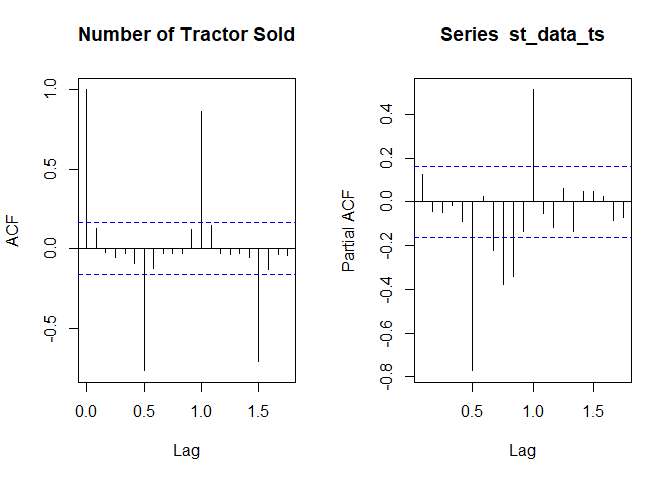
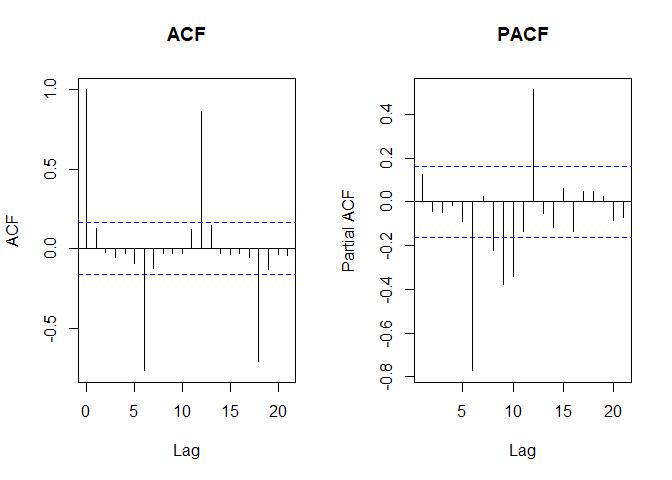
finished tractor sales arima

diff --git a/tractor/tractor_arima.md b/tractor/tractor_arima.md
@@ -9,6 +9,7 @@ February 14, 2019
 library(here)
 library(tidyverse)
 library(tseries)
+library(forecast)
 ```
 
 Read in data and get it into ts format.
@@ -77,8 +78,45 @@ Determine degrees of ARIMA from ACF and PACF plots
 
 ``` r
 par(mfrow=c(1,2))
-acf(st_data_ts)
-pacf(st_data_ts)
+acf(ts(st_data_ts), main='ACF')
+pacf(ts(st_data_ts), main='PACF')
 ```
 
-![](tractor_arima_files/figure-markdown_github/unnamed-chunk-7-1.png)
+![](tractor_arima_files/figure-markdown_github/unnamed-chunk-7-1.png) Interpretation: Because of the significant values in both ACF and PACF plots an ARIMA mode is a good choice. The seasonal component exist because we see spikes at lag 12 on both graphs. AR(0), diff(1), MA(1)
+
+``` r
+arima_fit <- auto.arima(log10(data_ts), approximation=FALSE, trace=FALSE)
+
+summary(arima_fit)
+```
+
+    ## Series: log10(data_ts) 
+    ## ARIMA(0,1,1)(0,1,1)[12] 
+    ## 
+    ## Coefficients:
+    ##           ma1     sma1
+    ##       -0.4047  -0.5529
+    ## s.e.   0.0885   0.0734
+    ## 
+    ## sigma^2 estimated as 0.0002571:  log likelihood=354.4
+    ## AIC=-702.79   AICc=-702.6   BIC=-694.17
+    ## 
+    ## Training set error measures:
+    ##                        ME       RMSE        MAE         MPE      MAPE
+    ## Training set 0.0002410698 0.01517695 0.01135312 0.008335713 0.4462212
+    ##                   MASE       ACF1
+    ## Training set 0.2158968 0.01062604
+
+Predict
+
+``` r
+pred <- predict(arima_fit, n.ahead=36)
+# pred
+
+plot(data_ts, type='l', xlim=c(2004, 2018), ylim=c(0, 1600))
+lines(10^(pred$pred), col='blue')
+lines(10^(pred$pred + 2*pred$se), col='orange')
+lines(10^(pred$pred - 2*pred$se), col='orange')
+```
+
+![](tractor_arima_files/figure-markdown_github/unnamed-chunk-9-1.png)
